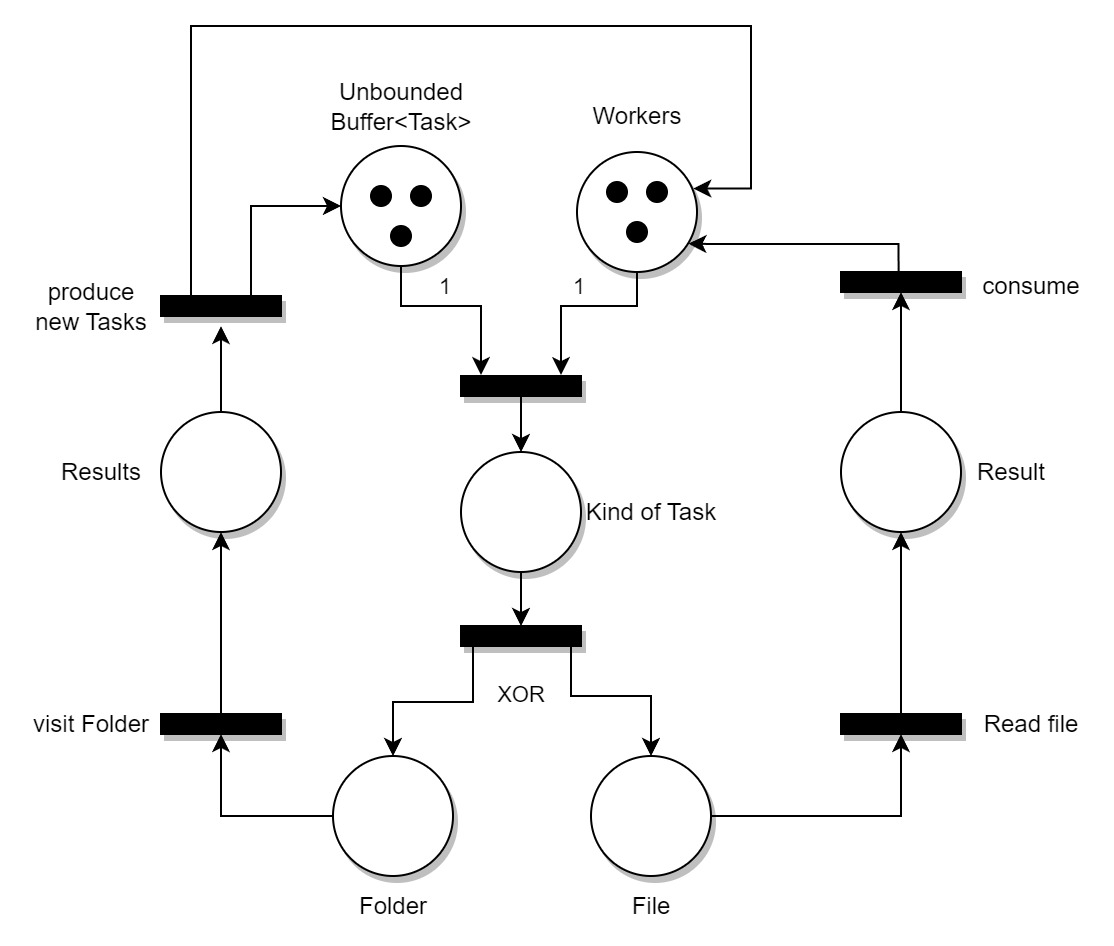
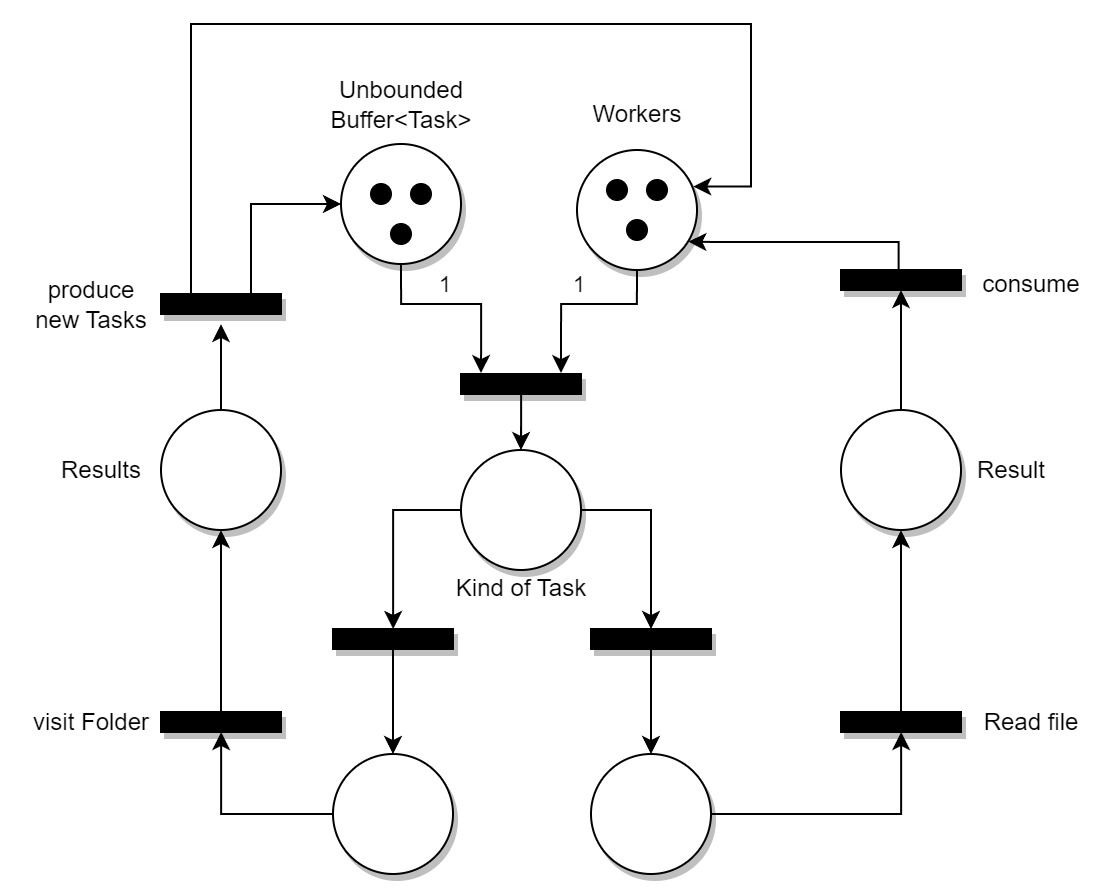
wip(report): add performance to part-01

diff --git a/report/readme.md b/report/readme.md
@@ -165,27 +165,41 @@ A fronte dell'analisi sulla lettura dei file svolta in precedenza, è stata adot
 
 Il diagramma proposto in precedenza è stato dettagliato ulteriormente, in modo da tenere conto sia il flusso di controllo del singolo *Produttore*, che l'aggiunta di un *Monitor* per raccogliere le statistiche dei files.
 
-> Per la lettura del grafico si può partire da sinistra verso destra:
->
-> - La parte a sinistra è il ciclo di vita del **Producer** (Agente) che prende una cartella e la visita:
->   - per ogni cartella che trova, la inserisce nel buffer delle cartelle da visitare.
->   - per ogni file che trova, lo inserisce nel buffer di file da analizzare, ma deve attendere che il monitor sia disponibile.
->   - **Nota:** il buffer delle cartelle è interno al Producer, mentre il buffer dei file no, quindi quest'ultimo deve attendere il monitor per poter aggiungere i files e poter analizzare una nuova cartella.
->
-> - La parte centrale è quella relativa alla **TaskBag** (Monitor) ed entrambe le tipologie di Agenti competono su essa:
->   - Il Producer cerca di aggiungere nuovi Task.
->   - I Consumers richiedono nuovi Task da svolgere.
->
-> - La parte a destra rappresenta il ciclo di vita dei **Consumers** (Agenti). Ogni consumer sfrutta 2 Monitor:
->   - La TaskBag per ricevere il nuovo Task da svolgere che, una volta ricevuto, viene processato
->   - Il Monitor delle statistiche, dove vengono inserire queste ultime, un volta calcolate.
+Per la lettura del grafico si può partire da sinistra verso destra:
+
+- La parte a sinistra è il ciclo di vita del **Producer** (Agente) che prende una cartella e la visita:
+  - per ogni cartella che trova, la inserisce nel buffer delle cartelle da visitare.
+  - per ogni file che trova, lo inserisce nel buffer di file da analizzare, ma deve attendere che il monitor sia disponibile.
+  - **Nota:** il buffer delle cartelle è interno al Producer, mentre il buffer dei file no, quindi quest'ultimo deve attendere il monitor per poter aggiungere i files e poter analizzare una nuova cartella.
+
+- La parte centrale è quella relativa alla **TaskBag** (Monitor) ed entrambe le tipologie di Agenti competono su essa:
+  - Il Producer cerca di aggiungere nuovi Task.
+  - I Consumers richiedono nuovi Task da svolgere.
+
+- La parte a destra rappresenta il ciclo di vita dei **Consumers** (Agenti). Ogni consumer sfrutta 2 Monitor:
+  - La TaskBag per ricevere il nuovo Task da svolgere che, una volta ricevuto, viene processato
+  - Il Monitor delle statistiche, dove vengono inserire queste ultime, un volta calcolate.
 
 ![Grafico architettura part 01](./img/part-01/part-01-schema.jpg)
 
 ### Performance
 
+$$ S \approx 4.5 $$
+
 <center>
 
-
+| #Consumers | Time (ms) |
+|:----------:|:---------:|
+|      1     |   25991   |
+|      2     |   13732   |
+|      3     |    9608   |
+|      4     |    7624   |
+|      5     |    6855   |
+|      6     |    6019   |
+|     ...    |    ...    |
+|     12     |    5834   |
+|     13     |    6214   |
 
 </center>
+
+![Grafico Speed up](./img/part-01/part01-grafico-speedup.png)
